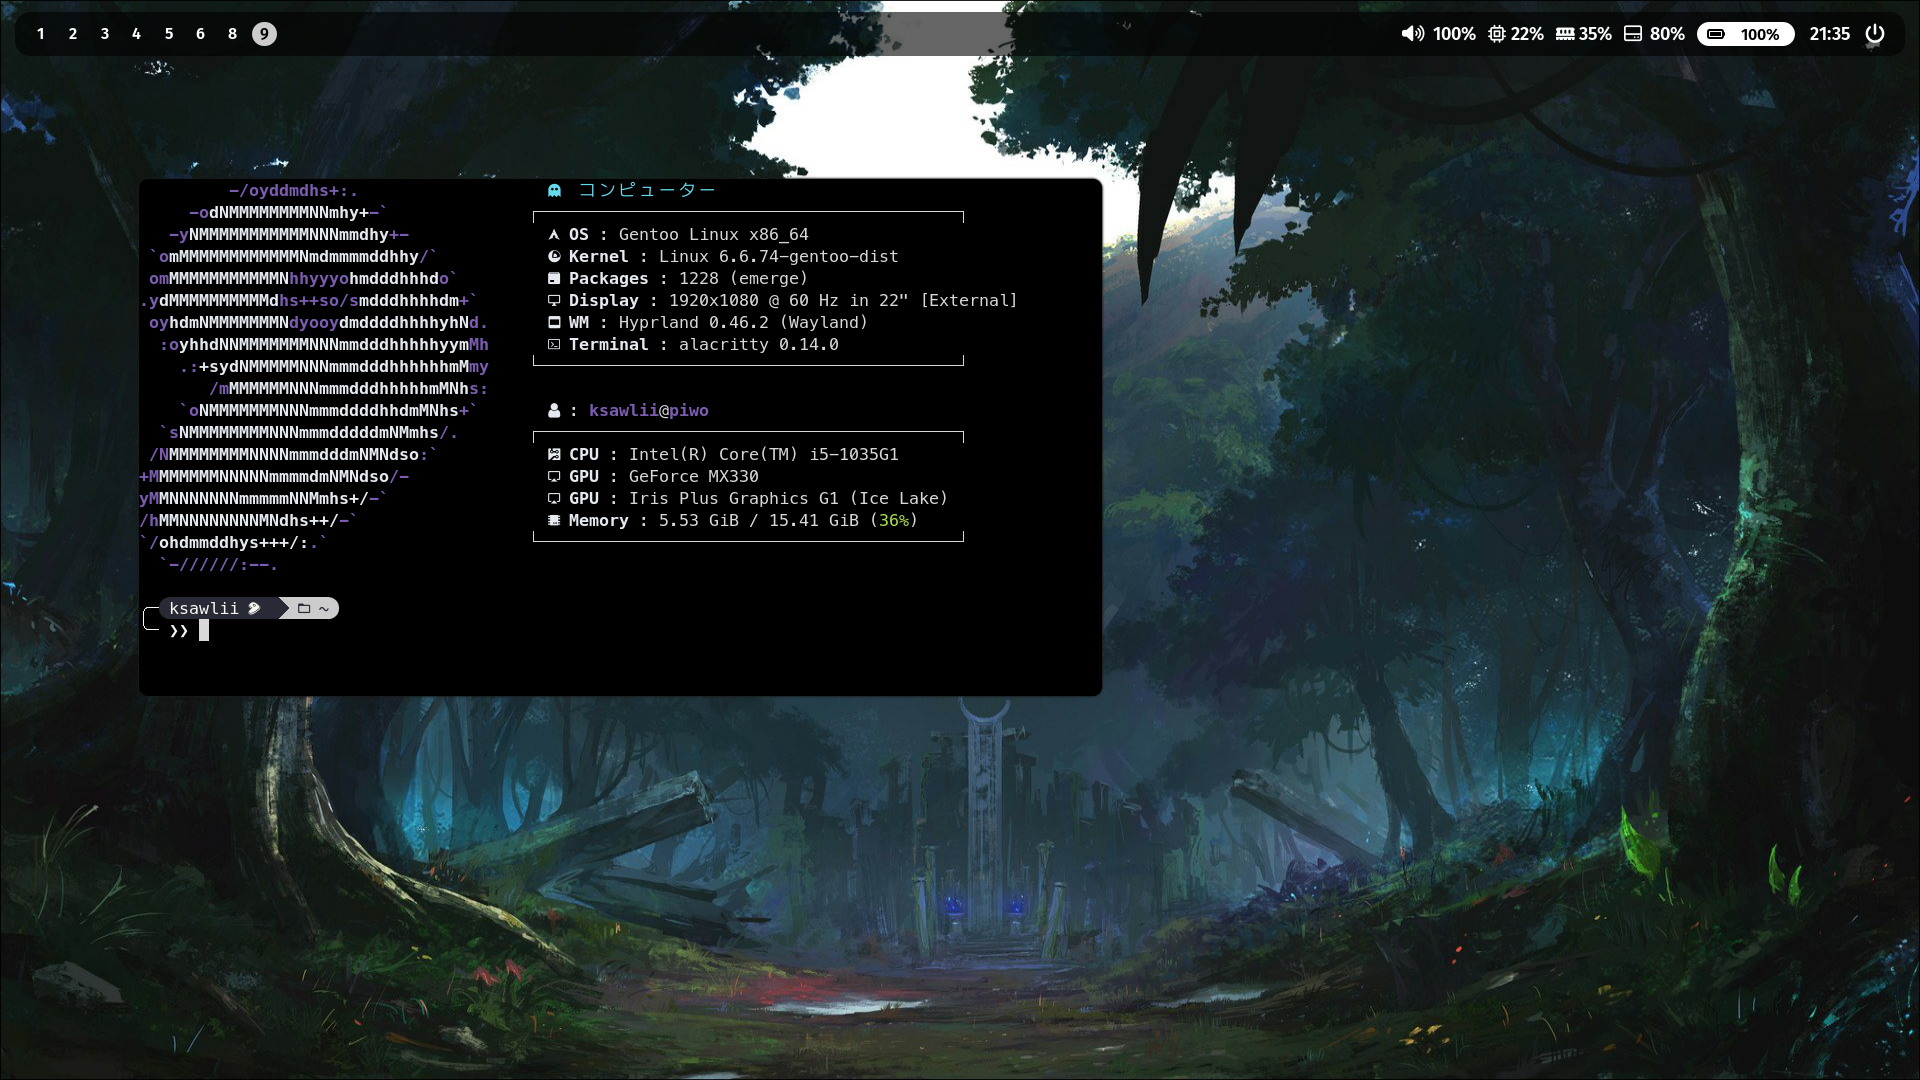
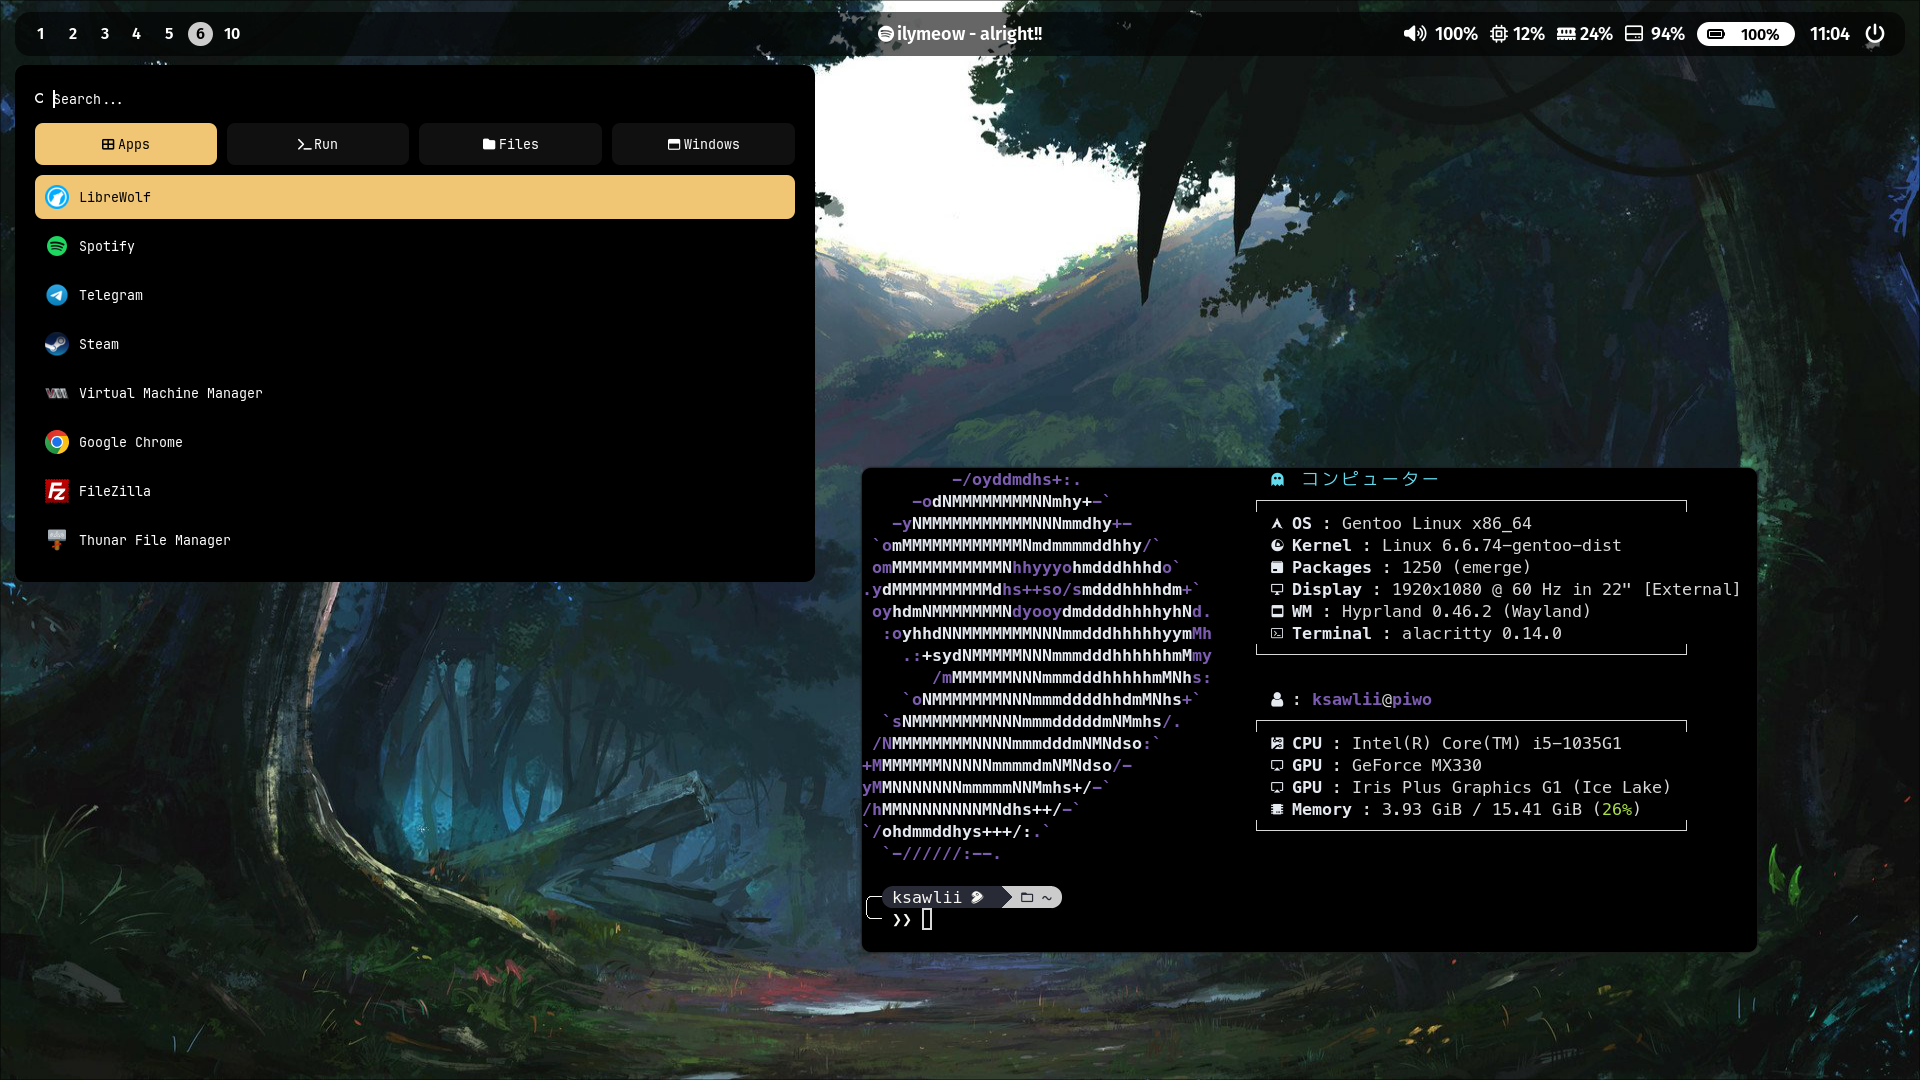
hypr: waybar: Show current spotify song
Original mediaplayer.sh https://github.com/poorlajka/dotfiles/blob/main/waybar/mediaplayer.sh

diff --git a/configs/waybar/style.css b/configs/waybar/style.css
@@ -196,3 +196,14 @@ window#waybar {
     animation-iteration-count: infinite;
     animation-direction: alternate;
 }
+
+/* -----------------------------------------------------
+ * Spotify
+ * ----------------------------------------------------- */
+ 
+#custom-spotify {
+    margin:0px;
+    padding:0px;
+    font-size:18px;
+    color:@iconcolor;
+}
